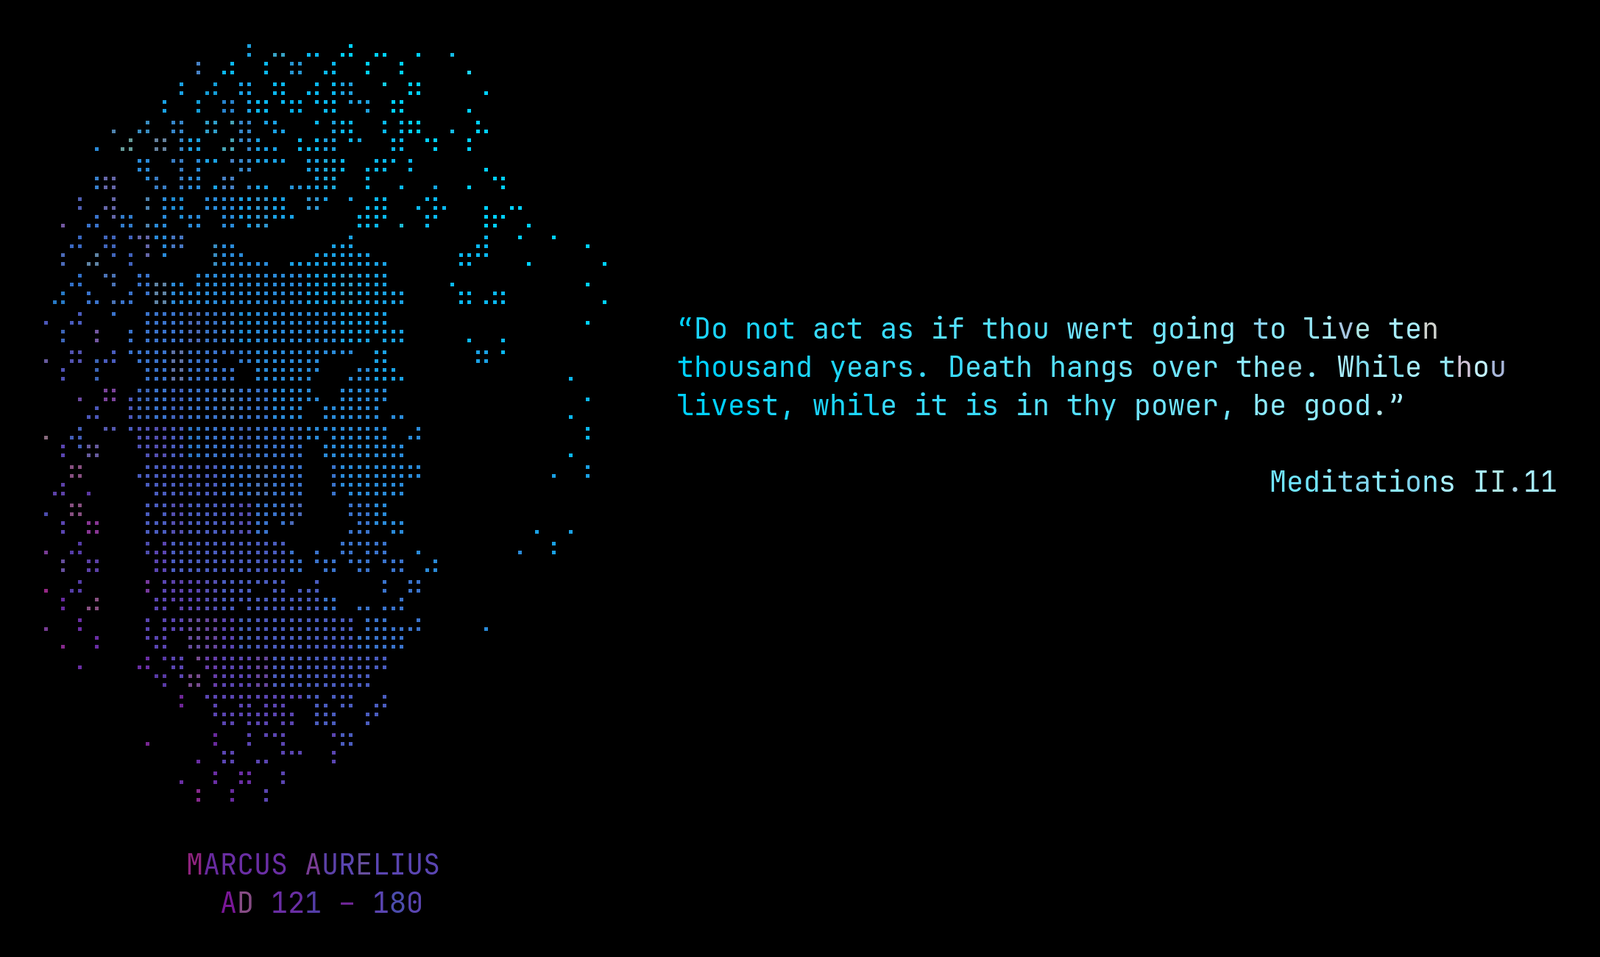
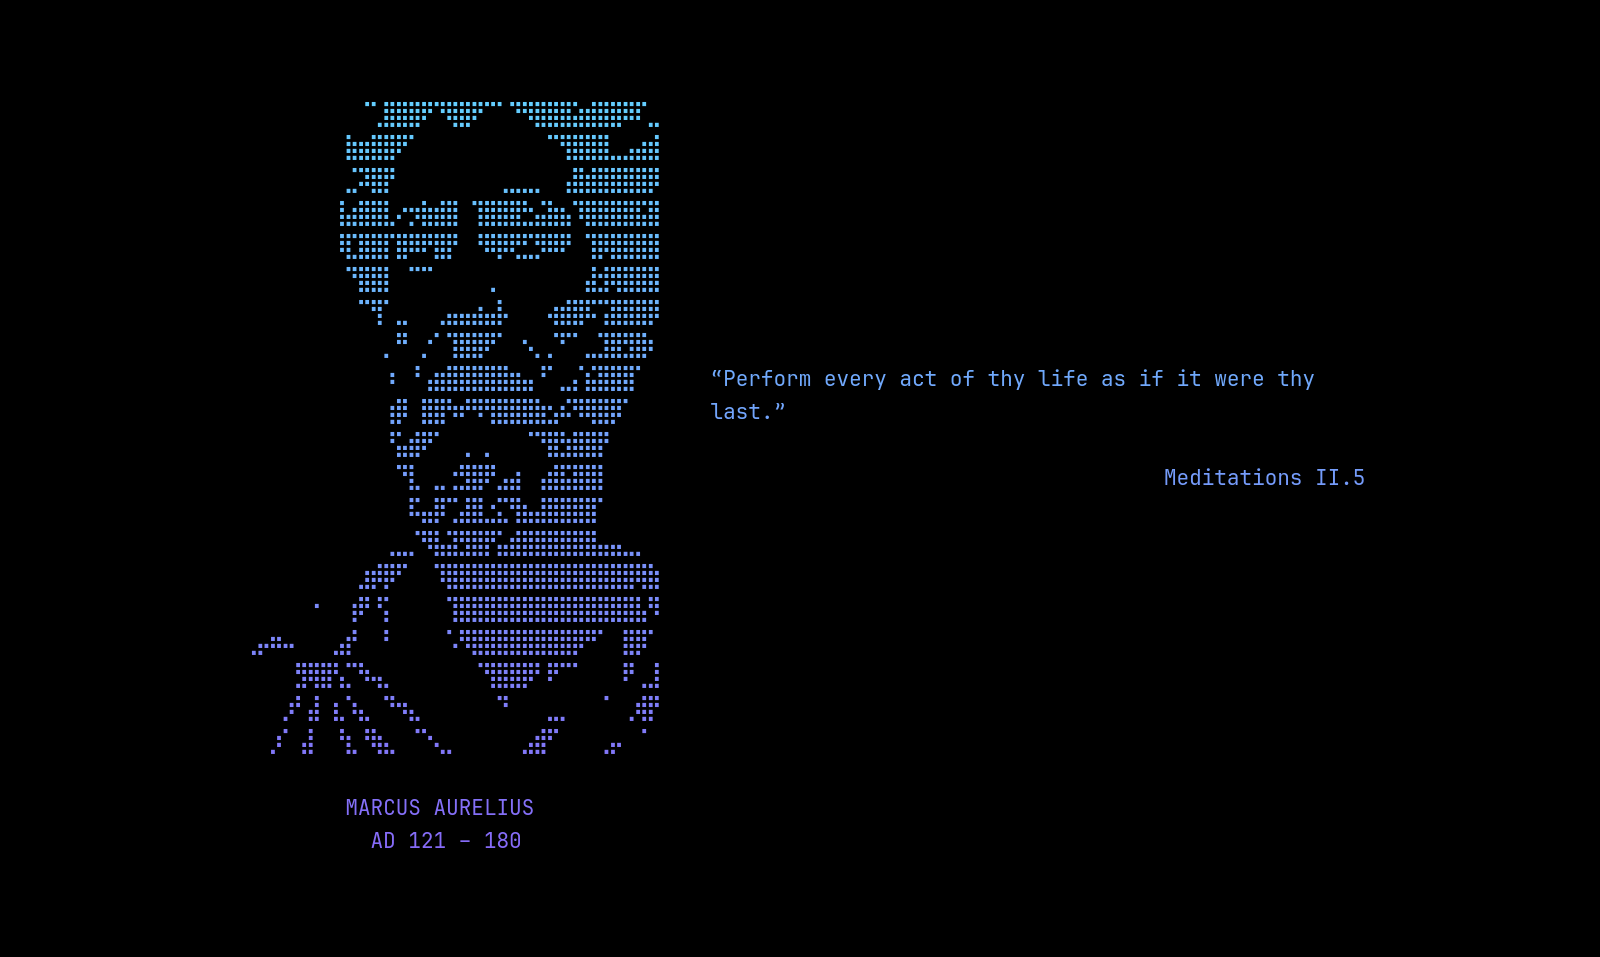
Build the listing art from the committed portraits
preview.png still showed the museum-photograph portraits, and there was no
way to remake it or the release clips short of setting up a screen
recording — so a portrait change quietly left the listing art stale.

scripts/make-preview.ts renders one plate per Stoic from art/, each with
that Stoic's shortest quote, through the same compose() the screensaver
writes and on the same 111x30 grid. Deterministic, so the same art always
gives the same preview. The plates are drawn white and multiplied through a
gradient, which is what the 1.x still did; --mono skips it.

It writes preview.png (committed), and preview.gif and demo.mp4, which stay
gitignored release assets.

Claude-Session: https://claude.ai/code/session_0191s8sZA8M5STdb9vLNkofL

diff --git a/scripts/make-preview.ts b/scripts/make-preview.ts
@@ -1,0 +1,129 @@
+#!/usr/bin/env bun
+// Build the listing still (preview.png) and the README animation (preview.gif)
+// from the committed art, so a change to a portrait can be shown without
+// setting up a screen recording.
+//
+// Every frame is a real canvas: the same compose() the screensaver writes to
+// its branding file, laid out on the same 111x30 grid, drawn at the terminal's
+// cell aspect ratio. The only liberty is colour — the plates are rendered white
+// on black and then multiplied through a gradient, which is what the 1.x
+// listing still did too.
+//
+// Usage: bun scripts/make-preview.ts [--still <slug>] [--mono] [--no-gif] [--no-mp4]
+//   preview.png  1600x957, the still, default slug marcus
+//   preview.gif  800x479, one plate per Stoic, 2.5s each
+//   demo.mp4     1600x957, the same plates at full size
+// The gif and the mp4 are gitignored: they are release assets, so that
+// `omarchy plugin add` does not clone them.
+
+import { $ } from "bun";
+import { mkdtempSync, rmSync } from "node:fs";
+import { tmpdir } from "node:os";
+import { dirname, join } from "node:path";
+import { compose, parseAuthors, parseQuotes, type Quote } from "../src/canvas.ts";
+import { renderCanvasPng } from "../src/png.ts";
+
+const root = dirname(import.meta.dir);
+const GRID = { cols: 111, rows: 30 };
+const STILL = { width: 1600, height: 957 };
+const GIF = { width: 800, seconds: 2.5 };
+const GRADIENT = ["#5FDBFF", "#8B5CF6"] as const;
+
+const argv = Bun.argv.slice(2);
+const flag = (name: string) => argv.includes(`--${name}`);
+const value = (name: string) => {
+  const i = argv.indexOf(`--${name}`);
+  return i >= 0 ? argv[i + 1] : undefined;
+};
+
+const still = value("still") ?? "marcus";
+const mono = flag("mono");
+
+const quotes = parseQuotes(await Bun.file(join(root, "data/quotes.tsv")).text());
+const authors = parseAuthors(await Bun.file(join(root, "data/authors.tsv")).text());
+
+/**
+ * The shortest quote each Stoic has, so a frame is a portrait beside a line
+ * that fits rather than a wall of text — and so the same input always gives the
+ * same preview.
+ */
+function frameQuote(slug: string): Quote | undefined {
+  return quotes
+    .filter((q) => q.author === slug)
+    .sort((a, b) => a.text.length - b.text.length || a.citation.localeCompare(b.citation))[0];
+}
+
+const scratch = mkdtempSync(join(tmpdir(), "omastoic-preview-"));
+
+try {
+  const frames: string[] = [];
+  for (const [i, slug] of [...authors.keys()].entries()) {
+    const quote = frameQuote(slug);
+    if (!quote) {
+      console.error(`skip ${slug}: no quote in the book`);
+      continue;
+    }
+    const art = (await Bun.file(join(root, "art", `${slug}.txt`)).text())
+      .replace(/\n+$/, "")
+      .split("\n");
+    const canvas = compose(quote, authors.get(slug), { ...GRID, art });
+
+    const plate = join(scratch, `${String(i).padStart(2, "0")}-${slug}.png`);
+    await renderCanvasPng(canvas, plate, {
+      ...STILL,
+      grid: GRID,
+      foreground: "#ffffff",
+      background: "#000000",
+    });
+
+    if (!mono) {
+      // White on black is a mask: multiplied through the gradient it keeps the
+      // dots and leaves the ground alone.
+      await $`magick -size ${`${STILL.width}x${STILL.height}`} gradient:${`${GRADIENT[0]}-${GRADIENT[1]}`} ${plate} -compose multiply -composite ${plate}`.quiet();
+    }
+    frames.push(plate);
+    console.log(`${slug.padEnd(12)} ${quote.citation}`);
+  }
+
+  if (!frames.length) throw new Error("no frames to build a preview from");
+
+  const chosen = frames.find((f) => f.includes(`-${still}.png`)) ?? frames[0];
+  await $`cp ${chosen} ${join(root, "preview.png")}`;
+  console.log(`\npreview.png  ${STILL.width}x${STILL.height}  (${still})`);
+
+  if (!flag("no-gif")) {
+    const list = join(scratch, "frames.txt");
+    // ffconcat wants the last frame repeated to give it a duration.
+    const lines = [
+      "ffconcat version 1.0",
+      ...frames.flatMap((f) => [`file '${f}'`, `duration ${GIF.seconds}`]),
+      `file '${frames[frames.length - 1]}'`,
+    ];
+    await Bun.write(list, lines.join("\n"));
+
+    const gif = join(root, "preview.gif");
+    const filter =
+      `scale=${GIF.width}:-2:flags=lanczos,split[s0][s1];[s0]palettegen=max_colors=64[p];[s1][p]paletteuse=dither=none`;
+    await $`ffmpeg -y -loglevel error -f concat -safe 0 -i ${list} -filter_complex ${filter} -loop 0 ${gif}`;
+    const size = (await Bun.file(gif).arrayBuffer()).byteLength;
+    console.log(`preview.gif  ${GIF.width}px  ${frames.length} frames  ${(size / 1024 / 1024).toFixed(1)}MB`);
+  }
+
+  if (!flag("no-mp4")) {
+    const list = join(scratch, "frames-mp4.txt");
+    const lines = [
+      "ffconcat version 1.0",
+      ...frames.flatMap((f) => [`file '${f}'`, `duration ${GIF.seconds}`]),
+      `file '${frames[frames.length - 1]}'`,
+    ];
+    await Bun.write(list, lines.join("\n"));
+
+    const mp4 = join(root, "demo.mp4");
+    // yuv420p and even dimensions, or the clip will not play everywhere.
+    await $`ffmpeg -y -loglevel error -f concat -safe 0 -i ${list} -vf ${"scale=trunc(iw/2)*2:trunc(ih/2)*2,fps=25"} -c:v libx264 -preset slow -crf 20 -pix_fmt yuv420p -movflags +faststart ${mp4}`;
+    const size = (await Bun.file(mp4).arrayBuffer()).byteLength;
+    console.log(`demo.mp4     ${STILL.width}x${STILL.height}  ${(size / 1024 / 1024).toFixed(1)}MB`);
+  }
+} finally {
+  rmSync(scratch, { recursive: true, force: true });
+}

diff --git a/README.md b/README.md
@@ -200,6 +200,14 @@ as tone, where a diffusion dither at this size turns into static.
 `scripts/preview.sh <canvas.txt>` renders a canvas to a PNG at the terminal's
 cell aspect ratio, which is the quickest way to judge a new portrait.
 
+**Listing art.** `bun scripts/make-preview.ts` rebuilds `preview.png`, and the
+`preview.gif` and `demo.mp4` that go on the release, from the committed art —
+one plate per Stoic, each with that Stoic's shortest quote, so the same input
+always gives the same preview. Frames are real canvases laid out on the same
+111×30 grid the screensaver uses; the only liberty is the gradient they are
+multiplied through. `--mono` leaves them white, `--still <slug>` chooses the
+Stoic on the still.
+
 ## Tests
 
 ```bash
